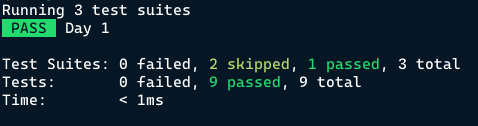
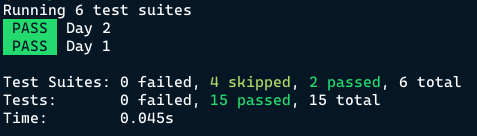
feat: add day 2 to native solution

Changed region(s): [[0.0, 0.4524, 0.9686, 0.9048], [0.0, 0.0238, 0.4109, 0.2857], [0.0, 0.2857, 0.2348, 0.4048]]

diff --git a/advent-of-native/README.md b/advent-of-native/README.md
@@ -1,6 +1,6 @@
 # Advent of Code 2019
 
-Trying some solutions for ReasonML on the Native side. Solutions are mostly transferable from the BuckleScript implementations due to [Tablecloth](https://github.com/darklang/tablecloth). 
+Trying some solutions for ReasonML on the Native side. Solutions are mostly transferable from the BuckleScript implementations due to [Tablecloth](https://github.com/darklang/tablecloth).
 
 ## Advent of Code 2019 Story
 
@@ -10,12 +10,13 @@ Collect stars by solving puzzles. Two puzzles will be made available on each day
 
 ## Days
 
-| Day                                                                                                                                                    | #1  |  #2 | Performance       |
-| ------------------------------------------------------------------------------------------------------------------------------------------------------ | --- | --- | ----------------- |
-| [Day 1: The Tyranny of the Rocket Equation](https://github.com/believer/advent-of-code/blob/master/advent-of-native/lib/DayOne.re) | 🌟  | 🌟  | < 1ms / < 1ms      |
+| Day                                                                                                                                | #1  |  #2 |
+| ---------------------------------------------------------------------------------------------------------------------------------- | --- | --- |
+| [Day 1: The Tyranny of the Rocket Equation](https://github.com/believer/advent-of-code/blob/master/advent-of-native/lib/DayOne.re) | 🌟  | 🌟  |
+| [Day 2: 1202 Program Alarm](https://github.com/believer/advent-of-code/blob/master/advent-of-native/lib/DayTwo.re)                 | 🌟  | 🌟  |
 
 ## Performance
 
-I haven't been able to add a real benchmarking framework yet. But I have tests using [Rely](https://reason-native.com/docs/rely/). Which runs the entire test suite in less than 1 ms at the moment.
+I haven't been able to add a real benchmarking framework yet. But I have tests using [Rely](https://reason-native.com/docs/rely/) which runs the entire test suite in **0.045s** at the moment.
 
 ![Rely](docs/rely.png)
